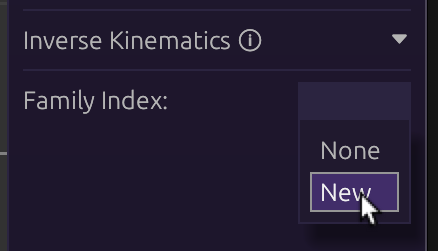
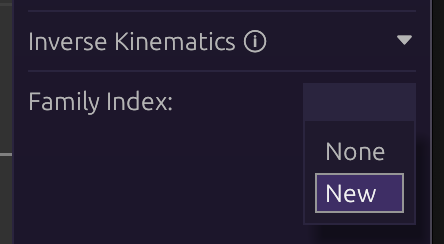
ik page images smaller by default

diff --git a/src/inverse-kinematics.md b/src/inverse-kinematics.md
@@ -1,3 +1,9 @@
+<style>
+  .content img {
+    width: 30rem
+  }
+</style>
+
 # Inverse Kinematics
 
 Armatures with limbs (shoulders, legs, etc) can use inverse kinematics to
